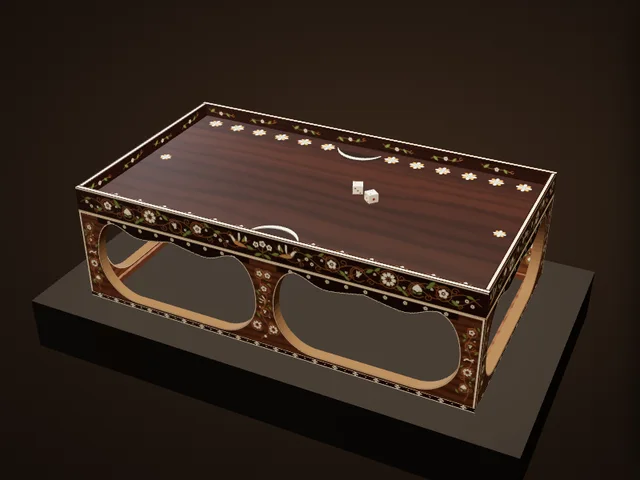
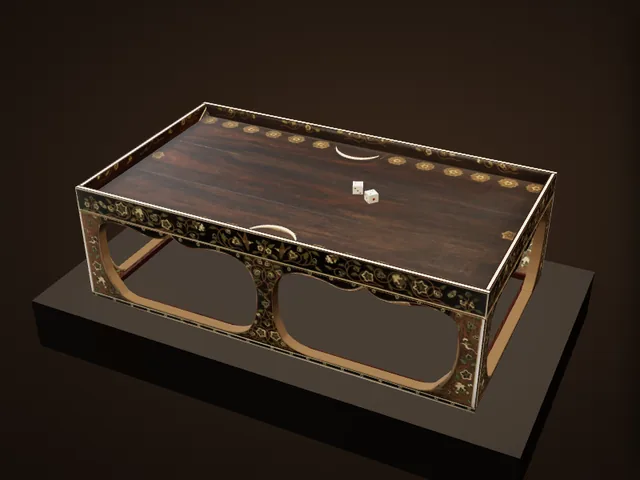
博物館：双六局の側面・盤面・壁の内側を正倉院の写真そのものから（描いた木画をやめる）、開口部の形を写真で測った輪郭に
Claude-Session: https://claude.ai/code/session_01EiWRAZTxRF5M5nk5vdR2jJ

diff --git a/atlas/museum/gallery-hi.js b/atlas/museum/gallery-hi.js
@@ -50,7 +50,7 @@
         ["किनारे पर पक्षी", "बोर्ड का किनारा: बाँस की पतली पट्टियों से बनी बेलें, हाथीदाँत के फूल, हरे रंगे हिरण-सींग की पत्तियाँ और धारीदार पंख फैलाकर उड़ते पक्षी।"],
         ["आधार", "हल्की लकड़ी के आधार की हर लंबी ओर दो बड़े खुले हिस्से कटे हैं; उनके बीच कमर जैसा पतला बीच का खंभा और पतले कोने के पाए, सब पर बेलें।"],
         ['पासे', 'शोसोइन में हाथीदाँत के पासे भी रखे हैं (उत्तरी खंड 17, हर भुजा लगभग 1.3–1.4 सेमी)। आज की तरह, आमने-सामने के फलकों का जोड़ सात होता है। यहाँ संदर्भ के लिए दो रखे गए हैं।']],
-      model: "माप शोसोइन के रिकॉर्ड के अनुसार हैं। आकार और नमूने उसकी प्रकाशित तस्वीरों के अनुसार; बारीक जड़ाई सरल की गई है।",
+      model: "माप शोसोइन के अभिलेखों के अनुसार हैं। किनारों और खेल की सतह की जड़ाई शोसोइन की प्रकाशित तस्वीरों को सीधा करके लगाई गई है।",
       src: [['शोसोइन, “木画紫檀双六局”', 'https://shosoin.kunaicho.go.jp/treasures/?id=0000010086&index=10'], ['शोसोइन प्रदर्शनी, “悠久の輝き（前編）” (अर्धचंद्र और फूल)', 'https://shosoin-ten.jp/articles/detail/000453.html'], ['शोसोइन प्रदर्शनी, “木画紫檀双六局”', 'https://shosoin-ten.jp/info/treasures/000414/'], ['नारा शिंबुन, “時を超えたたからもの(2)”', 'https://www.nara-np.co.jp/news/20251103211942.html']] },
     pyrgus: { name: 'वेटवाइस-फ़्रॉइट्सहाइम की पासा-मीनार', alt: 'एक रोमन पासा-मीनार (turricula / pyrgus)', date: 'चौथी शताब्दी ई.', where: 'जर्मनी (रोमन जर्मेनिया)', found: 'वेटवाइस-फ़्रॉइट्सहाइम के पास एक रोमन विला का स्थल; 1983 में ताँबे की प्लेटों के रूप में मिली और संग्रहालय ने इसे फिर से जोड़ा',
       museum: 'राइनलैंड राज्य संग्रहालय, बॉन (Rheinisches Landesmuseum Bonn)', no: 'Inv. 85.0269.00', mat: 'ताँबा-मिश्रधातु की प्लेट', size: 'ऊँ 22 सेमी · 9 × 9 सेमी',

diff --git a/atlas/museum/gallery-ru.js b/atlas/museum/gallery-ru.js
@@ -50,7 +50,7 @@
         ["Птицы на торце", "Торец доски: завитки из тонких полосок бамбука, цветы из слоновой кости, листья из окрашенного в зелёный оленьего рога и летящие птицы с полосатыми крыльями."],
         ["Подставка", "Подставка из более светлого дерева прорезана двумя большими проёмами на каждой длинной стороне; между ними — центральная стойка с перехватом и тонкие угловые ножки, всё в завитках."],
         ['Игральные кости', 'В Сёсоине хранятся и игральные кости из слоновой кости (Северный отдел 17, грань около 1,3–1,4 см). Как и сегодня, сумма противоположных граней равна семи. Здесь для справки положены две.']],
-      model: "Размеры — по записям Сёсоина. Форма и узоры — по его фотографиям; тонкая инкрустация упрощена.",
+      model: "Размеры — по записям Сёсоина. Инкрустация боковых сторон и поля взята с опубликованных фотографий Сёсоина, выпрямленных и наложенных на модель.",
       src: [['Сёсоин, «木画紫檀双六局»', 'https://shosoin.kunaicho.go.jp/treasures/?id=0000010086&index=10'], ['Выставка Сёсоина, «悠久の輝き（前編）» (полумесяцы и цветы)', 'https://shosoin-ten.jp/articles/detail/000453.html'], ['Выставка Сёсоина, «木画紫檀双六局»', 'https://shosoin-ten.jp/info/treasures/000414/'], ['«Нара симбун», «時を超えたたからもの(2)»', 'https://www.nara-np.co.jp/news/20251103211942.html']] },
     pyrgus: { name: 'Башня для костей из Феттвайс-Фройцхайма', alt: 'Римская башня для игральных костей (turricula / pyrgus)', date: 'IV век н. э.', where: 'Германия (римская Германия)', found: 'Остатки римской виллы близ Феттвайс-Фройцхайма; найдена в 1983 году в виде медных пластин и заново собрана музеем',
       museum: 'Рейнский земельный музей (Бонн)', no: 'Inv. 85.0269.00', mat: 'Пластина из медного сплава', size: 'В 22 см · 9 × 9 см',

diff --git a/atlas/museum/gallery-ar.js b/atlas/museum/gallery-ar.js
@@ -50,7 +50,7 @@
         ["الطيور على الحافة", "حافة اللوح: لفائف مرسومة بشرائح رفيعة من الخيزران، وأزهار من العاج، وأوراق من قرن الأيل المصبوغ بالأخضر، وطيور تطير بأجنحة مخططة."],
         ["القاعدة", "القاعدة من خشب أفتح، مفرغة بفتحتين كبيرتين في كل جانب طويل، يبقى بينهما عمود أوسط ضيق الخصر وأرجل ركنية نحيلة، وكلها مزينة باللفائف."],
         ['النرد', 'يحفظ شوسوين أيضًا أحجار نرد من العاج (القسم الشمالي 17، طول ضلعها نحو 1.3–1.4 سم). وكما اليوم، مجموع كل وجهين متقابلين سبعة. ووُضع هنا اثنان منها على سبيل المرجع.']],
-      model: "المقاسات بحسب سجلات شوسوئين. الشكل والزخارف بحسب صوره المنشورة، والتطعيم الدقيق مبسَّط.",
+      model: "المقاسات بحسب سجلات شوسوئين. تطعيم الجوانب وسطح اللعب مأخوذ من صور شوسوئين المنشورة بعد تقويمها وتطبيقها.",
       src: [['شوسوين، «木画紫檀双六局»', 'https://shosoin.kunaicho.go.jp/treasures/?id=0000010086&index=10'], ['معرض شوسوين، «悠久の輝き（前編）» (الأهلّة والأزهار)', 'https://shosoin-ten.jp/articles/detail/000453.html'], ['معرض شوسوين، «木画紫檀双六局»', 'https://shosoin-ten.jp/info/treasures/000414/'], ['صحيفة نارا شيمبون، «時を超えたたからもの(2)»', 'https://www.nara-np.co.jp/news/20251103211942.html']] },
     pyrgus: { name: 'برج النرد من فيتفايس-فرويتسهايم', alt: 'برج نرد روماني (turricula / pyrgus)', date: 'القرن 4 م', where: 'ألمانيا (جرمانيا الرومانية)', found: 'موقع فيلا رومانية قرب فيتفايس-فرويتسهايم؛ عُثر عليه عام 1983 على هيئة صفائح نحاسية وأعاد المتحف تجميعه',
       museum: 'متحف الراين الإقليمي في بون', no: 'Inv. 85.0269.00', mat: 'صفيحة من سبيكة نحاسية', size: 'الارتفاع 22 سم · 9 × 9 سم',

diff --git a/atlas/museum/gallery-ja.js b/atlas/museum/gallery-ja.js
@@ -51,7 +51,7 @@
         ['盤の側面の花鳥', '盤の側面には、竹の細い線で描いた唐草に象牙の花と緑に染めた鹿角の葉、そして縞模様の翼を広げて飛ぶ鳥の木画。'],
         ['床脚', '少し明るい色の床脚は、長い辺に大きな刳り形が2つ。くびれた中央の柱と細い隅の脚にも唐草の木画がほどこされています。'],
         ['さいころ（双六頭）', '正倉院には象牙のさいころ「双六頭」も別に伝わります（北倉17、一辺1.3〜1.4cm）。向かい合う面の目を足すと7になるのは今と同じ。ここでは参考に2つ置いています。']],
-      model: "寸法は正倉院の記録どおり。形と文様は公開写真に合わせ、細かな木画は簡略にしています。",
+      model: "寸法は正倉院の記録どおり。側面と盤面の木画は、正倉院の公開写真をまっすぐに直して貼っています。",
       src: [['正倉院「木画紫檀双六局」', 'https://shosoin.kunaicho.go.jp/treasures/?id=0000010086&index=10'], ['正倉院展「悠久の輝き（前編）」（盤面の三日月と花）', 'https://shosoin-ten.jp/articles/detail/000453.html'], ['正倉院展「木画紫檀双六局」', 'https://shosoin-ten.jp/info/treasures/000414/'], ['奈良新聞「時を超えたたからもの(2)」', 'https://www.nara-np.co.jp/news/20251103211942.html']] },
     pyrgus: { name: 'ヴェットヴァイス＝フロイツハイムのダイスタワー', alt: 'ローマのダイスタワー（turricula / pyrgus）', date: '4世紀', where: 'ドイツ（ローマ帝国・ゲルマニア属州）', found: 'ヴェットヴァイス＝フロイツハイム近くのローマのヴィラ跡。1983年に銅の板の形で見つかり、博物館で組み立て直された',
       museum: 'ボン・ライン州立博物館', no: 'Inv. 85.0269.00', mat: '銅合金の板', size: '高さ22cm・幅9cm・奥行き9cm',

diff --git a/atlas/museum/gallery-fr.js b/atlas/museum/gallery-fr.js
@@ -50,7 +50,7 @@
         ["Oiseaux sur la tranche", "La tranche du plateau : rinceaux tracés en fines lamelles de bambou, fleurs d'ivoire, feuilles de bois de cerf teinté en vert et oiseaux en vol aux ailes rayées."],
         ["Le piètement", "Le piètement, d'un bois plus clair, est ajouré de deux grandes ouvertures sur chaque grand côté, laissant un montant central étranglé et de fins pieds d'angle, tous ornés de rinceaux."],
         ["Les dés", "Le Shōsōin conserve aussi des dés en ivoire (Section Nord 17, environ 1,3–1,4 cm de côté). Comme aujourd'hui, les faces opposées totalisent sept. Deux sont posés ici à titre de référence."]],
-      model: "Dimensions d'après les registres du Shōsōin. Forme et motifs d'après ses photographies ; la marqueterie fine est simplifiée.",
+      model: "Dimensions d'après les registres du Shōsōin. La marqueterie des côtés et du plateau provient des photographies publiées par le Shōsōin, redressées et appliquées.",
       src: [["Shōsōin, “木画紫檀双六局”", "https://shosoin.kunaicho.go.jp/treasures/?id=0000010086&index=10"], ["Exposition du Shōsōin, “悠久の輝き（前編）” (les croissants et les fleurs)", "https://shosoin-ten.jp/articles/detail/000453.html"], ["Exposition du Shōsōin, “木画紫檀双六局”", "https://shosoin-ten.jp/info/treasures/000414/"], ["Nara Shimbun, “時を超えたたからもの(2)”", "https://www.nara-np.co.jp/news/20251103211942.html"]] },
     pyrgus: { name: "La tour à dés de Vettweiss-Froitzheim", alt: "Une tour à dés romaine (turricula / pyrgus)", date: "IVe siècle apr. J.-C.", where: "Allemagne (Germanie romaine)", found: "Site d'une villa romaine près de Vettweiss-Froitzheim ; trouvée en 1983 sous forme de plaques de cuivre et remontée par le musée",
       museum: "Rheinisches Landesmuseum Bonn", no: "Inv. 85.0269.00", mat: "Plaque d'alliage cuivreux", size: "H 22 cm · 9 × 9 cm",

diff --git a/atlas/museum/gallery-tr.js b/atlas/museum/gallery-tr.js
@@ -50,7 +50,7 @@
         ["Kenardaki kuşlar", "Tahtanın kenarı: ince bambu şeritlerle çizilmiş kıvrımlar, fildişi çiçekler, yeşile boyanmış geyik boynuzundan yapraklar ve çizgili kanatlarıyla uçan kuşlar."],
         ["Ayaklık", "Daha açık renkli ağaçtan ayaklığın her uzun yüzünde iki büyük açıklık oyulmuştur; aralarında beli daralan bir orta direk ve ince köşe ayakları kalır, hepsi kıvrımlarla bezelidir."],
         ['Zarlar', 'Shōsōin\'de fildişi zarlar da korunur (Kuzey Bölümü 17, kenarı yaklaşık 1,3–1,4 cm). Bugün olduğu gibi karşılıklı yüzlerin toplamı yedidir. Burada referans olarak iki tane konmuştur.']],
-      model: "Ölçüler Shōsōin kayıtlarına göredir. Biçim ve desenler yayımlanmış fotoğraflara göredir; ince kakma işi sadeleştirilmiştir.",
+      model: "Ölçüler Shōsōin kayıtlarına göredir. Yanlardaki ve oyun alanındaki kakma, Shōsōin'in yayımladığı fotoğrafların düzeltilip uygulanmasıyla elde edilmiştir.",
       src: [['Shōsōin, “木画紫檀双六局”', 'https://shosoin.kunaicho.go.jp/treasures/?id=0000010086&index=10'], ['Shōsōin Sergisi, “悠久の輝き（前編）” (hilaller ve çiçekler)', 'https://shosoin-ten.jp/articles/detail/000453.html'], ['Shōsōin Sergisi, “木画紫檀双六局”', 'https://shosoin-ten.jp/info/treasures/000414/'], ['Nara Shimbun, “時を超えたたからもの(2)”', 'https://www.nara-np.co.jp/news/20251103211942.html']] },
     pyrgus: { name: 'Vettweiss-Froitzheim Zar Kulesi', alt: 'Bir Roma zar kulesi (turricula / pyrgus)', date: 'MS 4. yüzyıl', where: 'Almanya (Roma Germania\'sı)', found: 'Vettweiss-Froitzheim yakınlarında bir Roma villası alanı; 1983\'te bakır levhalar hâlinde bulundu ve müze tarafından yeniden birleştirildi',
       museum: 'Rheinisches Landesmuseum Bonn', no: 'Inv. 85.0269.00', mat: 'Bakır alaşımı levha', size: 'Y 22 cm · 9 × 9 cm',

diff --git a/atlas/museum/gallery-de.js b/atlas/museum/gallery-de.js
@@ -50,7 +50,7 @@
         ["Vögel an der Kante", "Die Kante des Bretts: Ranken aus feinen Bambusstreifen, Elfenbeinblüten, Blätter aus grün gefärbtem Hirschgeweih und fliegende Vögel mit gestreiften Flügeln."],
         ["Das Gestell", "Das Gestell aus hellerem Holz ist an jeder Langseite mit zwei großen Öffnungen ausgeschnitten; dazwischen ein taillierter Mittelpfosten und schlanke Eckbeine, alle mit Ranken belegt."],
         ['Die Würfel', 'Der Shōsōin bewahrt auch Würfel aus Elfenbein (Nordabteilung 17, etwa 1,3–1,4 cm Kantenlänge). Wie heute ergeben gegenüberliegende Seiten zusammen sieben. Zwei sind hier zum Vergleich aufgestellt.']],
-      model: "Maße nach den Aufzeichnungen des Shōsōin. Form und Muster nach dessen Fotos; die feine Einlegearbeit ist vereinfacht.",
+      model: "Maße nach den Aufzeichnungen des Shōsōin. Die Einlegearbeit der Seiten und der Spielfläche stammt aus den veröffentlichten Fotos des Shōsōin, entzerrt und aufgelegt.",
       src: [['Shōsōin, “木画紫檀双六局”', 'https://shosoin.kunaicho.go.jp/treasures/?id=0000010086&index=10'], ['Shōsōin-Ausstellung, “悠久の輝き（前編）” (Mondsicheln und Blüten)', 'https://shosoin-ten.jp/articles/detail/000453.html'], ['Shōsōin-Ausstellung, “木画紫檀双六局”', 'https://shosoin-ten.jp/info/treasures/000414/'], ['Nara Shimbun, “時を超えたたからもの(2)”', 'https://www.nara-np.co.jp/news/20251103211942.html']] },
     pyrgus: { name: 'Der Würfelturm von Vettweiß-Froitzheim', alt: 'Ein römischer Würfelturm (turricula / pyrgus)', date: '4. Jahrhundert n. Chr.', where: 'Deutschland (römisches Germanien)', found: 'Gelände einer römischen Villa bei Vettweiß-Froitzheim; 1983 als Kupferplatten gefunden und vom Museum wieder zusammengesetzt',
       museum: 'Rheinisches Landesmuseum Bonn', no: 'Inv. 85.0269.00', mat: 'Platte aus Kupferlegierung', size: 'H 22 cm · 9 × 9 cm',

diff --git a/atlas/museum/gallery-ko.js b/atlas/museum/gallery-ko.js
@@ -50,7 +50,7 @@
         ["판 옆면의 꽃과 새", "판의 옆면에는 가는 대나무 선으로 그린 당초에 상아 꽃, 녹색으로 물들인 사슴뿔 잎, 줄무늬 날개를 펴고 나는 새의 목화(木畫)."],
         ["상다리", "조금 밝은 색의 상다리는 긴 쪽에 큰 투각이 2개. 잘록한 가운데 기둥과 가는 모서리 다리에도 당초 목화가 베풀어져 있습니다."],
         ["주사위", "쇼소인에는 상아 주사위도 따로 전해집니다(북창 17, 한 변 약 1.3~1.4cm). 마주 보는 면의 눈을 더하면 7이 되는 것은 오늘날과 같습니다. 여기서는 참고로 2개를 놓았습니다."]],
-      model: "치수는 쇼소인의 기록대로입니다. 형태와 무늬는 공개 사진에 맞췄고, 세밀한 목화는 간략하게 했습니다.",
+      model: "치수는 쇼소인의 기록대로입니다. 옆면과 판 면의 목화는 쇼소인이 공개한 사진을 바로 펴서 입혔습니다.",
       src: [["쇼소인, “木画紫檀双六局”", "https://shosoin.kunaicho.go.jp/treasures/?id=0000010086&index=10"], ["쇼소인전, “悠久の輝き（前編）”(초승달과 꽃)", "https://shosoin-ten.jp/articles/detail/000453.html"], ["쇼소인전, “木画紫檀双六局”", "https://shosoin-ten.jp/info/treasures/000414/"], ["나라신문, “時を超えたたからもの(2)”", "https://www.nara-np.co.jp/news/20251103211942.html"]] },
     pyrgus: { name: "베트바이스-프로이츠하임 주사위 탑", alt: "로마의 주사위 탑(turricula / pyrgus)", date: "서기 4세기", where: "독일(로마 제국 게르마니아)", found: "베트바이스-프로이츠하임 근처의 로마 빌라 유적. 1983년 구리판 상태로 발견되어 박물관에서 다시 조립됨",
       museum: "본 라인 주립 박물관", no: "Inv. 85.0269.00", mat: "구리 합금 판", size: "높이 22cm · 9 × 9cm",

diff --git a/atlas/museum/gallery-es.js b/atlas/museum/gallery-es.js
@@ -50,7 +50,7 @@
         ["Aves en el canto", "El canto del tablero: roleos trazados con finas tiras de bambú, flores de marfil, hojas de asta de ciervo teñida de verde y aves en vuelo con alas rayadas."],
         ["La base", "La base, de una madera más clara, está calada con dos grandes aberturas en cada lado largo, dejando un pie central estrangulado y finas patas en las esquinas, todo cubierto de roleos."],
         ["Los dados", "El Shōsōin conserva también dados de marfil (Sección Norte 17, de unos 1,3–1,4 cm de lado). Como hoy, las caras opuestas suman siete. Aquí se colocan dos como referencia."]],
-      model: "Medidas según los registros del Shōsōin. Forma y motivos según sus fotografías; la marquetería fina está simplificada.",
+      model: "Medidas según los registros del Shōsōin. La marquetería de los lados y del campo procede de las fotografías publicadas por el Shōsōin, enderezadas y aplicadas.",
       src: [["Shōsōin, “木画紫檀双六局”", "https://shosoin.kunaicho.go.jp/treasures/?id=0000010086&index=10"], ["Exposición del Shōsōin, “悠久の輝き（前編）” (las medias lunas y las flores)", "https://shosoin-ten.jp/articles/detail/000453.html"], ["Exposición del Shōsōin, “木画紫檀双六局”", "https://shosoin-ten.jp/info/treasures/000414/"], ["Nara Shimbun, “時を超えたたからもの(2)”", "https://www.nara-np.co.jp/news/20251103211942.html"]] },
     pyrgus: { name: "La torre de dados de Vettweiss-Froitzheim", alt: "Una torre de dados romana (turricula / pyrgus)", date: "Siglo IV d. C.", where: "Alemania (Germania romana)", found: "Restos de una villa romana cerca de Vettweiss-Froitzheim; hallada en 1983 en forma de placas de cobre y reensamblada por el museo",
       museum: "Rheinisches Landesmuseum Bonn", no: "Inv. 85.0269.00", mat: "Placa de aleación de cobre", size: "Al 22 cm · 9 × 9 cm",

diff --git a/atlas/museum/gallery-pt.js b/atlas/museum/gallery-pt.js
@@ -50,7 +50,7 @@
         ["Aves na borda", "A borda do tabuleiro: volutas traçadas em finas tiras de bambu, flores de marfim, folhas de chifre de cervo tingido de verde e aves voando com asas listradas."],
         ["A base", "A base, de madeira mais clara, é vazada com duas grandes aberturas em cada lado longo, deixando um pé central estreitado e pernas finas nos cantos, tudo com volutas."],
         ["Os dados", "O Shōsōin também guarda dados de marfim (Seção Norte 17, cerca de 1,3–1,4 cm de lado). Como hoje, as faces opostas somam sete. Dois foram colocados aqui como referência."]],
-      model: "Medidas segundo os registos do Shōsōin. Forma e motivos segundo as suas fotografias; a marchetaria fina está simplificada.",
+      model: "Medidas segundo os registos do Shōsōin. A marchetaria dos lados e do campo vem das fotografias publicadas pelo Shōsōin, endireitadas e aplicadas.",
       src: [["Shōsōin, “木画紫檀双六局”", "https://shosoin.kunaicho.go.jp/treasures/?id=0000010086&index=10"], ["Exposição do Shōsōin, “悠久の輝き（前編）” (as meias-luas e as flores)", "https://shosoin-ten.jp/articles/detail/000453.html"], ["Exposição do Shōsōin, “木画紫檀双六局”", "https://shosoin-ten.jp/info/treasures/000414/"], ["Nara Shimbun, “時を超えたたからもの(2)”", "https://www.nara-np.co.jp/news/20251103211942.html"]] },
     pyrgus: { name: "A torre de dados de Vettweiss-Froitzheim", alt: "Uma torre de dados romana (turricula / pyrgus)", date: "Século IV d.C.", where: "Alemanha (Germânia romana)", found: "Sítio de uma vila romana perto de Vettweiss-Froitzheim; encontrada em 1983 na forma de placas de cobre e remontada pelo museu",
       museum: "Rheinisches Landesmuseum Bonn", no: "Inv. 85.0269.00", mat: "Placa de liga de cobre", size: "A 22 cm · 9 × 9 cm",

diff --git a/atlas/museum/gallery-id.js b/atlas/museum/gallery-id.js
@@ -50,7 +50,7 @@
         ["Burung di tepi papan", "Tepi papan: sulur dari bilah bambu tipis, bunga gading, daun dari tanduk rusa yang diwarnai hijau, dan burung terbang dengan sayap bergaris."],
         ["Kaki papan", "Kaki papan dari kayu yang lebih terang diberi dua bukaan besar di tiap sisi panjang, menyisakan tiang tengah yang ramping di pinggang dan kaki sudut yang langsing, semuanya berhias sulur."],
         ['Dadu', 'Shōsōin juga menyimpan dadu gading (Bagian Utara 17, sisi sekitar 1,3–1,4 cm). Seperti sekarang, jumlah mata pada sisi yang berhadapan adalah tujuh. Dua dadu diletakkan di sini sebagai pembanding.']],
-      model: "Ukuran mengikuti catatan Shōsōin. Bentuk dan pola mengikuti foto resminya; tatahan halusnya disederhanakan.",
+      model: "Ukuran mengikuti catatan Shōsōin. Hiasan tatahan di sisi dan bidang main berasal dari foto terbitan Shōsōin yang diluruskan lalu ditempelkan.",
       src: [['Shōsōin, “木画紫檀双六局”', 'https://shosoin.kunaicho.go.jp/treasures/?id=0000010086&index=10'], ['Pameran Shōsōin, “悠久の輝き（前編）” (bulan sabit dan bunga)', 'https://shosoin-ten.jp/articles/detail/000453.html'], ['Pameran Shōsōin, “木画紫檀双六局”', 'https://shosoin-ten.jp/info/treasures/000414/'], ['Nara Shimbun, “時を超えたたからもの(2)”', 'https://www.nara-np.co.jp/news/20251103211942.html']] },
     pyrgus: { name: 'Menara Dadu Vettweiss-Froitzheim', alt: 'Menara dadu Romawi (turricula / pyrgus)', date: 'Abad ke-4 M', where: 'Jerman (Germania Romawi)', found: 'Situs vila Romawi di dekat Vettweiss-Froitzheim; ditemukan pada 1983 dalam bentuk lempeng tembaga dan dirakit ulang oleh museum',
       museum: 'Rheinisches Landesmuseum Bonn', no: 'Inv. 85.0269.00', mat: 'Lempeng paduan tembaga', size: 'T 22 cm · 9 × 9 cm',

diff --git a/atlas/museum/gallery-en.js b/atlas/museum/gallery-en.js
@@ -50,7 +50,7 @@
         ['Birds on the edge', 'The edge of the board: scrolls drawn in thin bamboo strips, ivory flowers, leaves of green-stained antler, and birds flying with striped wings spread.'],
         ['The base', 'The base, in a lighter wood, is cut away in two large openings on each long side, leaving a waisted post in the middle and slender corner legs, all set with scrolls.'],
         ['The dice', 'The Shōsōin also keeps ivory dice (North Section 17, about 1.3–1.4 cm a side). As today, opposite faces add up to seven. Two are set here for reference.']],
-      model: "Sizes follow the Shōsōin's records. Shape and patterns follow its published photographs; the fine marquetry is simplified.",
+      model: "Sizes follow the Shōsōin's records. The marquetry on the sides and the field is the Shōsōin's published photographs, straightened and applied.",
       src: [['Shōsōin, "木画紫檀双六局"', 'https://shosoin.kunaicho.go.jp/treasures/?id=0000010086&index=10'], ['Shōsōin Exhibition, "悠久の輝き（前編）" (the crescents and flowers)', 'https://shosoin-ten.jp/articles/detail/000453.html'], ['Shōsōin Exhibition, "木画紫檀双六局"', 'https://shosoin-ten.jp/info/treasures/000414/'], ['Nara Shimbun, "時を超えたたからもの(2)"', 'https://www.nara-np.co.jp/news/20251103211942.html']] },
     pyrgus: { name: 'The Vettweiss-Froitzheim Dice Tower', alt: 'A Roman dice tower (turricula / pyrgus)', date: '4th century AD', where: 'Germany (Roman Germania)', found: 'A Roman villa site near Vettweiss-Froitzheim; found in 1983 as copper plates and reassembled by the museum',
       museum: 'Rheinisches Landesmuseum Bonn', no: 'Inv. 85.0269.00', mat: 'Copper-alloy plate', size: 'H 22 cm · 9 × 9 cm',
